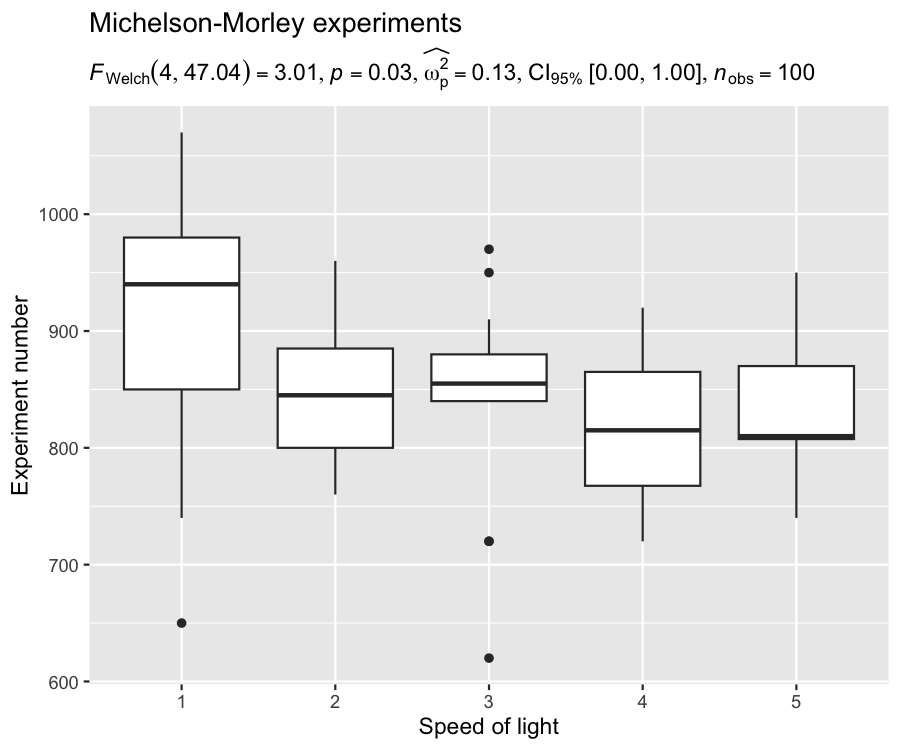
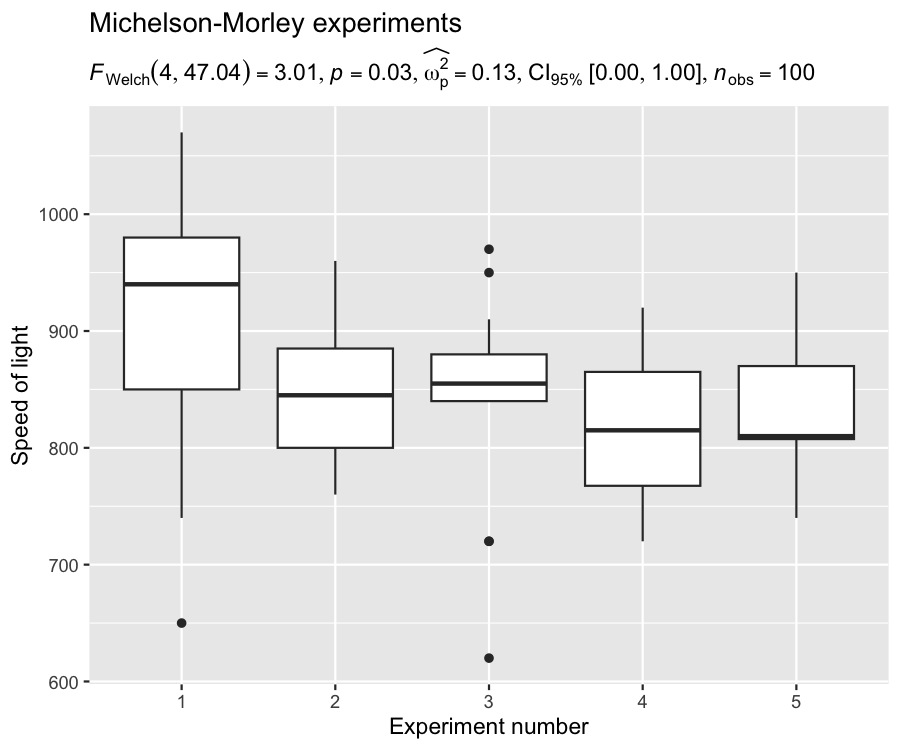
docs(readme): fix stale links, tables, and site metadata
- drop the incorrect Bayesian summary table in favour of the
  statsExpressions reference
- fix stale slide links, mislabelled example axes, and typos
- add getting-help and learn-more pointers, including extract_stats()
- replace the hand-maintained article list with the articles index
- correct the licence (MIT) in the getting-started vignette
- fix pkgdown citation meta tags and drop the hard-coded JSON-LD version

diff --git a/README.md b/README.md
@@ -85,14 +85,22 @@ hours working on this package rather than what I was paid to do. 😁
 
 ## Documentation and Examples
 
-To see the detailed documentation for each function in the stable
-**CRAN** version of the package, see:
+In addition to the examples below, see:
+
+- [Function
+  reference](https://www.indrapatil.com/ggstatsplot/reference/)
+
+- [Articles](https://www.indrapatil.com/ggstatsplot/articles/)
 
 - [Publication](https://joss.theoj.org/papers/10.21105/joss.03167)
 
-- [Presentation](https://www.indrapatil.com/intro-to-ggstatsplot/#/ggstatsplot-informative-statistical-visualizations)
+- [Presentation](https://www.indrapatil.com/intro-to-ggstatsplot/)
 
-- [Vignettes](https://www.indrapatil.com/ggstatsplot/articles/)
+## Getting help
+
+If you find a bug, have a question, or want to suggest a feature, please
+file an issue on GitHub:
+<https://github.com/IndrajeetPatil/ggstatsplot/issues>
 
 ## Summary of available plots
 
@@ -109,8 +117,9 @@ To see the detailed documentation for each function in the stable
 | `ggcoefstats()` | **dot-and-whisker plots** | for regression models and meta-analysis |
 
 In addition to these basic plots, `{ggstatsplot}` also provides
-**`grouped_`** versions (see below) that makes it easy to repeat the
-same analysis for any grouping variable.
+**`grouped_`** versions of all of these functions except `ggcoefstats()`
+(see below) that make it easy to repeat the same analysis for any
+grouping variable.
 
 ## Summary of types of statistical analyses
 
@@ -122,23 +131,12 @@ supported in this package-
 | `ggbetweenstats()` | Between group/condition comparisons | ✅ | ✅ | ✅ | ✅ |
 | `ggwithinstats()` | Within group/condition comparisons | ✅ | ✅ | ✅ | ✅ |
 | `gghistostats()`, `ggdotplotstats()` | Distribution of a numeric variable | ✅ | ✅ | ✅ | ✅ |
-| `ggcorrmat` | Correlation matrix | ✅ | ✅ | ✅ | ✅ |
+| `ggcorrmat()` | Correlation matrix | ✅ | ✅ | ✅ | ✅ |
 | `ggscatterstats()` | Correlation between two variables | ✅ | ✅ | ✅ | ✅ |
 | `ggpiestats()`, `ggbarstats()` | Association between categorical variables | ✅ | ✅ | ❌ | ✅ |
 | `ggpiestats()`, `ggbarstats()` | Equal proportions for categorical variable levels | ✅ | ✅ | ❌ | ✅ |
 | `ggcoefstats()` | Regression model coefficients | ✅ | ✅ | ✅ | ✅ |
 | `ggcoefstats()` | Random-effects meta-analysis | ✅ | ❌ | ✅ | ✅ |
-
-Summary of Bayesian analysis
-
-| Analysis                     | Hypothesis testing | Estimation |
-|:-----------------------------|:-------------------|:-----------|
-| (one/two-sample) *t*-test    | ✅                 | ✅         |
-| one-way ANOVA                | ✅                 | ✅         |
-| correlation                  | ✅                 | ✅         |
-| (unpaired) contingency table | ✅                 | ✅         |
-| (paired) contingency table   | ✅                 | ❌         |
-| random-effects meta-analysis | ✅                 | ✅         |
 
 ## Statistical reporting
 
@@ -152,8 +150,10 @@ example, here are results from Yuen’s test for trimmed means (robust
 ## Summary of statistical tests and effect sizes
 
 Statistical analysis is carried out by `{statsExpressions}` package, and
-thus a summary table of all the statistical tests currently supported
-across various functions can be found in article for that package:
+thus a summary table of all the statistical tests and effect sizes
+currently supported across various functions (including which Bayesian
+analyses support hypothesis testing and estimation) can be found in an
+article for that package:
 <https://www.indrapatil.com/statsExpressions/articles/stats_details.html>
 
 ## Primary functions
@@ -269,7 +269,7 @@ grouped_ggwithinstats(
   subject.id      = subject,
   type            = "np",
   xlab            = "Condition",
-  ylab            = "Desire to kill an artrhopod",
+  ylab            = "Desire to kill an arthropod",
   grouping.var    = region
 )
 ```
@@ -367,9 +367,9 @@ ggdotplotstats(
 inferential statistics <br> ✅ effect size + CIs <br> ✅ Bayesian
 hypothesis-testing <br> ✅ Bayesian estimation <br>
 
-As with the rest of the functions in this package, there is also a
-`grouped_` variant of this function to facilitate looping the same
-operation for all levels of a single grouping variable.
+As with most other functions in this package, there is also a `grouped_`
+variant of this function to facilitate looping the same operation for
+all levels of a single grouping variable.
 
 ``` r
 set.seed(123)
@@ -453,9 +453,9 @@ documentation:
 For more, also read the following vignette:
 <https://www.indrapatil.com/ggstatsplot/articles/web_only/ggscatterstats.html>
 
-### `ggcorrmat`
+### `ggcorrmat()`
 
-`ggcorrmat` makes a correlalogram (a matrix of correlation coefficients)
+`ggcorrmat()` makes a correlogram (a matrix of correlation coefficients)
 with minimal amount of code. Just sticking to the defaults itself
 produces publication-ready correlation matrices. But, for the sake of
 exploring the available options, let’s change some of the defaults. For
@@ -469,7 +469,7 @@ set.seed(123)
 ggcorrmat(
   data     = ggplot2::msleep,
   colors   = c("#B2182B", "white", "#4D4D4D"),
-  title    = "Correlalogram for mammals sleep dataset",
+  title    = "Correlogram for mammals sleep dataset",
   subtitle = "sleep units: hours; weight units: kilograms"
 )
 ```
@@ -481,8 +481,8 @@ ggcorrmat(
 ✅ effect size + significance<br> ✅ careful handling of `NA`s
 
 If there are `NA`s present in the selected variables, the legend will
-display minimum, median, and maximum number of pairs used for
-correlation tests.
+display minimum, mode, and maximum number of pairs used for correlation
+tests.
 
 There is also a `grouped_` variant of this function that makes it easy
 to repeat the same operation across a **single** grouping variable:
@@ -782,8 +782,8 @@ ggplot(morley, aes(x = as.factor(Expt), y = Speed)) +
   labs(
     title = "Michelson-Morley experiments",
     subtitle = stats_results,
-    x = "Speed of light",
-    y = "Experiment number"
+    x = "Experiment number",
+    y = "Speed of light"
   )
 ```
 
